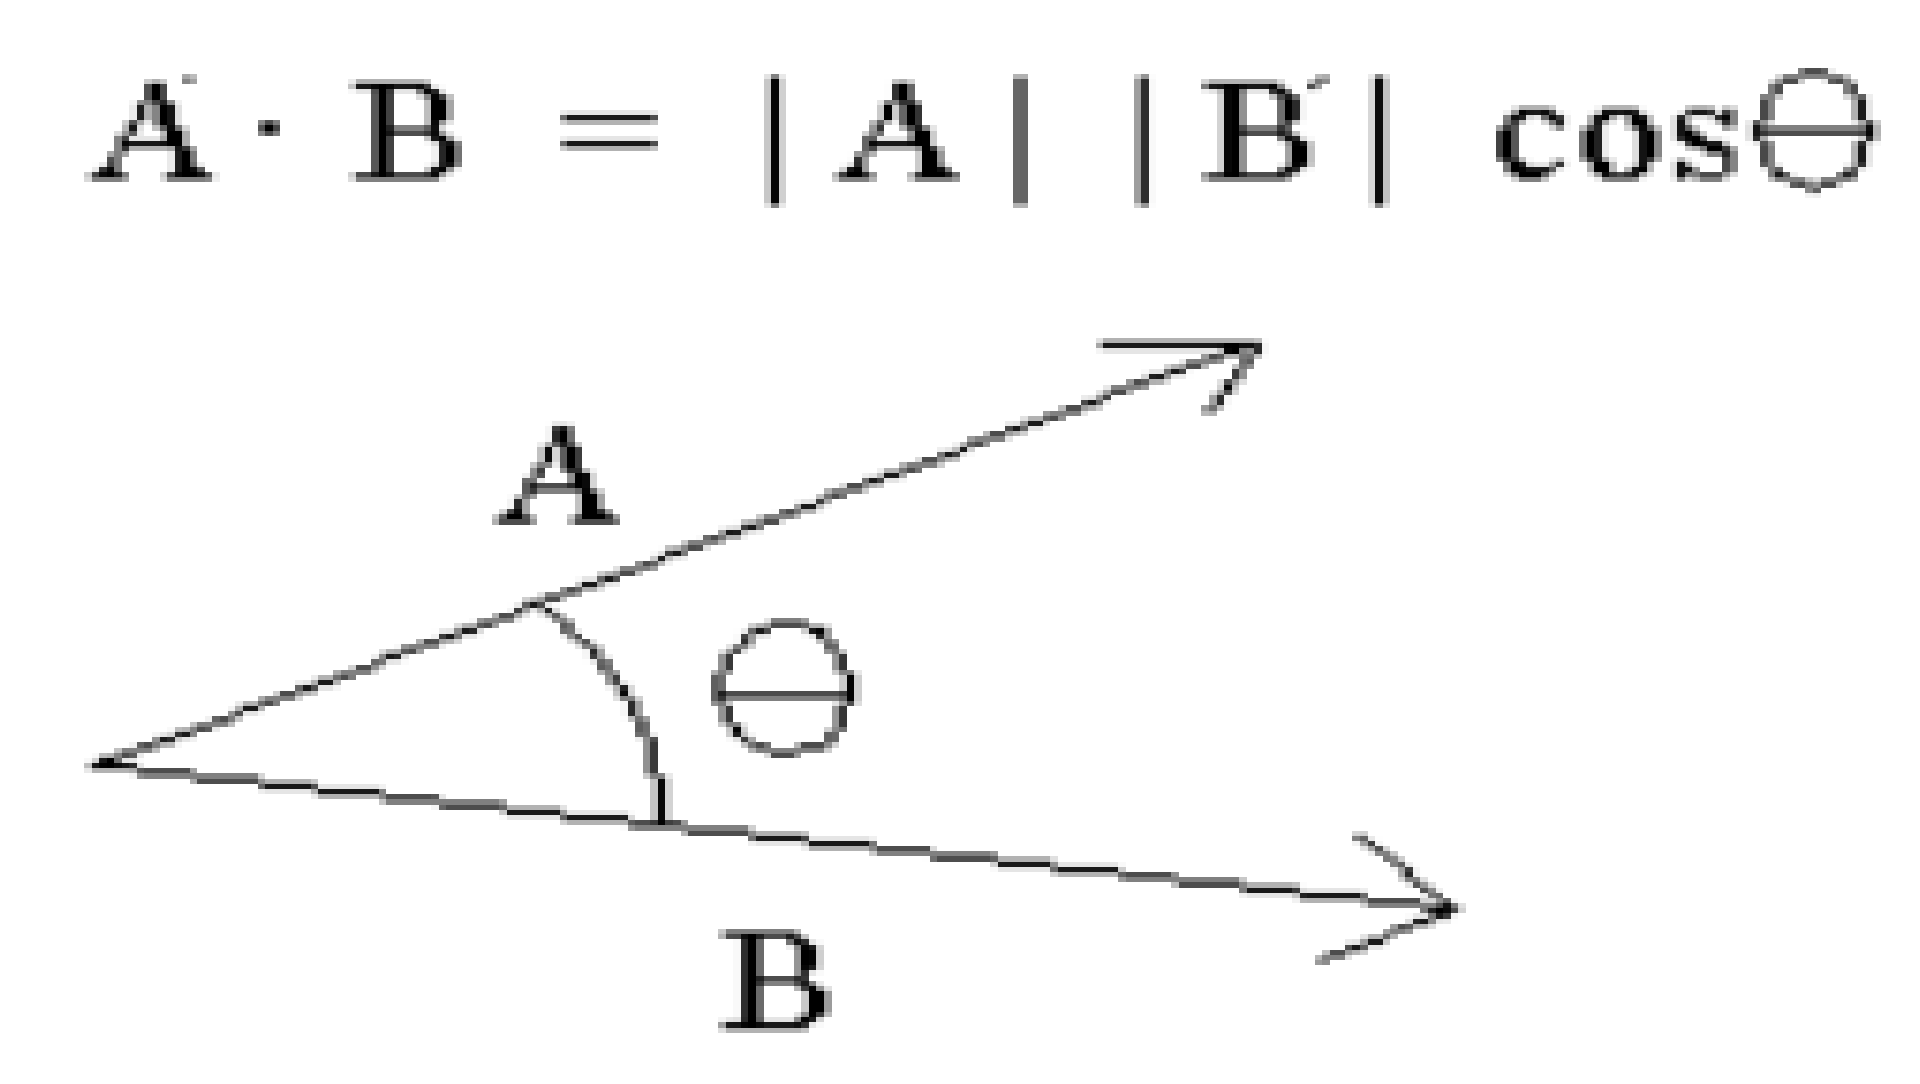
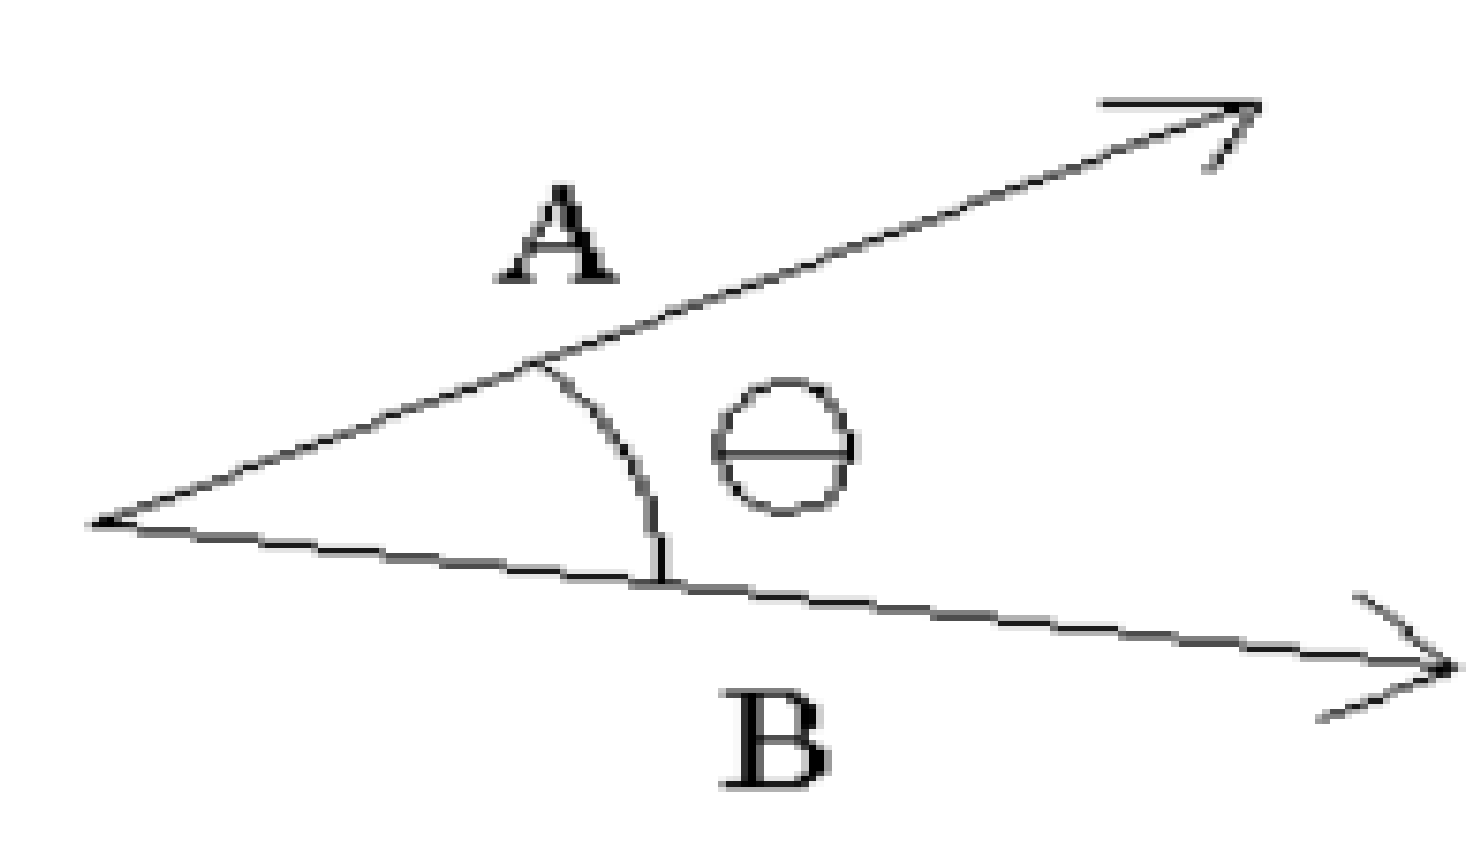
Updated figures and post.

diff --git a/_posts/2022-10-28-matrix-multiplication.md b/_posts/2022-10-28-matrix-multiplication.md
@@ -49,9 +49,9 @@ While all matrices are made up of such numbers, sometimes the numbers come with 
 
 ![Matrix split into rows or columns]({{ site.baseurl }}/images/matrix_multiplication/matrix_as_cols_and_rows.png "Matrix split into rows and columns>")
 
-Every matrix can also be used as a transformation which takes a vector as an input and returns another vector as its output. Instead of saying we *apply* the matrix *to* a vector, we say we *multiply* the matrix *with* the vector. 
+Every matrix can also be used as a transformation which takes a vector as an input and returns another vector as its output. Instead of saying we **apply** the matrix **to** a vector, we say we **multiply** the matrix **with** the vector. 
 
-While we will get to the way such a transformation works later in this post, a key idea is that when a matrix is interpreted as a transformation, what we visualize instead of the *content* of the matrix is usually its *effect* on vectors.
+While we will get to the way such a transformation works later in this post, a key idea is that when a matrix is interpreted as a transformation, what we visualize instead of the **content** of the matrix is usually its **effect** on vectors.
 
 ![Before and after]({{ site.baseurl }}/images/matrix_multiplication/matrix_as_transformation.png "Before and after")
 
@@ -65,25 +65,23 @@ To build up to multiplying a matrix by a matrix, we start with multiplying a vec
 
 Multiplying a vector $v$ with a vector $u$ gives a single number, a scalar, that is calculated with the formula $\sum_{i=1}^{n} v_{i} \cdot u_{i}$, which we have seen appearing for each cell in the output matrix in the introduction. Based on what the vectors represent, we can give this operation different meanings: 
 
-When one of the vectors is a set of coefficients, this sum is a weighted combination of the other. In the house prices setting, if the $i$-th cell of $v$ contains some attribute of the house and the corresponding cell of $u$ contains the money we can expect for one unit of this attribute, then $v \cdot u$ gives us the money we can expect for this house.
+1. When one of the vectors is a set of coefficients, this sum is a weighted combination of the other. In the house prices setting, if the $i$-th cell of $v$ contains some attribute of the house and the corresponding cell of $u$ contains the money we can expect for one unit of this attribute, then $v \cdot u$ gives us the money we can expect for this house.
 
 ![Weighted combination]({{ site.baseurl }}/images/matrix_multiplication/dot_as_combination_house.png "Weighted combination")
 
-When both vectors are interpreted as points in space, the product also has a geometric meaning. 
+2. When both vectors are interpreted as points in space, the product also has a geometric meaning. 
 An additional formula for the product of $v$ and $u$ is then
 
 $$ v \cdot u = \|v\| \cdot \|u\| \cdot \cos(\theta) $$
 
 Where 
-$ \|v\| $ is the length of $v$, $ \|u\| $ is the length of $u$ and $ \theta $ is the angle between them. Notice that the right-hand side does not contain vectors, only scalars. 
+$\|v\|$ is the length of $v$, $\|u\|$ is the length of $u$ and $ \theta $ is the angle between them. Notice that the right-hand side does not contain vectors, only scalars. 
 
 This is mainly interesting when the lengths of both vectors are constant (e.g. they are 1), and then a higher result corresponds to the angle between them being more acute. In other words, the product measures "to what degree are $u$ and $v$ pointing in the same direction" which we think of as "how similar are $u$ and $v$".
 
-TODO describe projection in direction
-
 ![Projection]({{ site.baseurl }}/images/matrix_multiplication/dot_as_projection.png "Projection")
 
-When both vectors represent an object of the same type (for example, an image) we still interpret their product as similarity or correlation, without thinking about angles. (image pattern matching)
+3. When both vectors represent an object of the same type (for example, an image) we still interpret their product as similarity or correlation, without thinking about angles.
 
 ![Pattern matching]({{ site.baseurl }}/images/matrix_multiplication/dot_as_pattern_matching.png "Pattern matching")
 
@@ -91,19 +89,25 @@ When both vectors represent an object of the same type (for example, an image) w
 
 The interpretation for a product of the form $u = A \cdot v$ highly depends on what $A$ and $v$ represent.
 
-When $A$ is a list of row vectors, this is equivalent to a many simultaneous vector-vector multiplications (in the house prices example - calculate the price of many houses)
+1. When $A$ is a list of row vectors, this is equivalent to a many simultaneous vector-vector multiplications (in the house prices example - calculate the price of many houses)
 
-When $A$ is a list of column vectors, and the vector is a list of coefficients - we think of it as mixing the columns of $A$ into a single column using $v$  (example - tissue mixing?)
+2. When $A$ is a list of column vectors, and the vector is a list of coefficients - we think of it as mixing the columns of $A$ into a single column using $v$  (example - tissue mixing?)
 
 ![Matrix weighted combination]({{ site.baseurl }}/images/matrix_multiplication/matrix_weighted_combination.png "Matrix weighted combination")
 
-$A$ is a geometric operation, $v$ is a point - $u$ is the point $v$ after being transformed by A. e.g. rotation, scaling
+3. When $A$ is a transformation and $v$ is a point or object to be transformed by $A$, $u$ is the $v$ after being transformed.  
 
-$A$ is a transformation, $v$ is an object - $u$ is the object $v$ after being transformed by $A$. e.g. image blurring
+If $v$ is a point and $A$ is a geometric operation such as a rotation or scaling, then $u$ is the transformed point:
+
+(image)
+
+If $v$ is a higher-level object such as an image, and $A$ is a transformation such as blurring, then $u$ is the transformed object:
+
+(image)
 
 ### Matrix-matrix multiplication
 
-The simplest case is when B is a list of column vectors. In this case the multiplication can be broken down to a list of independent multiplications from the previous section, which we interpret using the guidelines from before, based on what $A$ represents.
+1. The simplest case is when B is a list of column vectors. In this case the multiplication can be broken down to a list of independent multiplications from the previous section, which we interpret using the guidelines from before, based on what $A$ represents.
 
 For example, when A is a transformation - C is a list of transformed vectors.
 
@@ -111,11 +115,11 @@ If A is a list of row vectors, the result is a list of lists, i.e. a table, wher
 
 When A is a list of column vectors - result is a list of columns, where column j is a weighted combination of the columns of A with the coefficients in column j of B (e.g. gene expression)
 
-When both A and B are transformation, C too is a transformation that is achieved by applying B and then A, since:
+2. When both A and B are transformation, C too is a transformation that is achieved by applying B and then A, since:
 
 $$C \cdot v = (A \cdot B) \cdot v = A \cdot (B \cdot v)$$
 
-Lastly, a rare one that is more math-heavy is when B is a list of row vectors - result is a transformation that is the sum of n rank-1 outer products (i.e. 1d projections) between column i of A and row i of B. This gives us a way to break down the overall effect of the transformation into components (e.g. SVD).
+3. Lastly, a rare one that is more math-heavy is when B is a list of row vectors - result is a transformation that is the sum of n rank-1 outer products (i.e. 1d projections) between column i of A and row i of B. This gives us a way to break down the overall effect of the transformation into components (e.g. SVD).
 
 ## Conclusion
 
